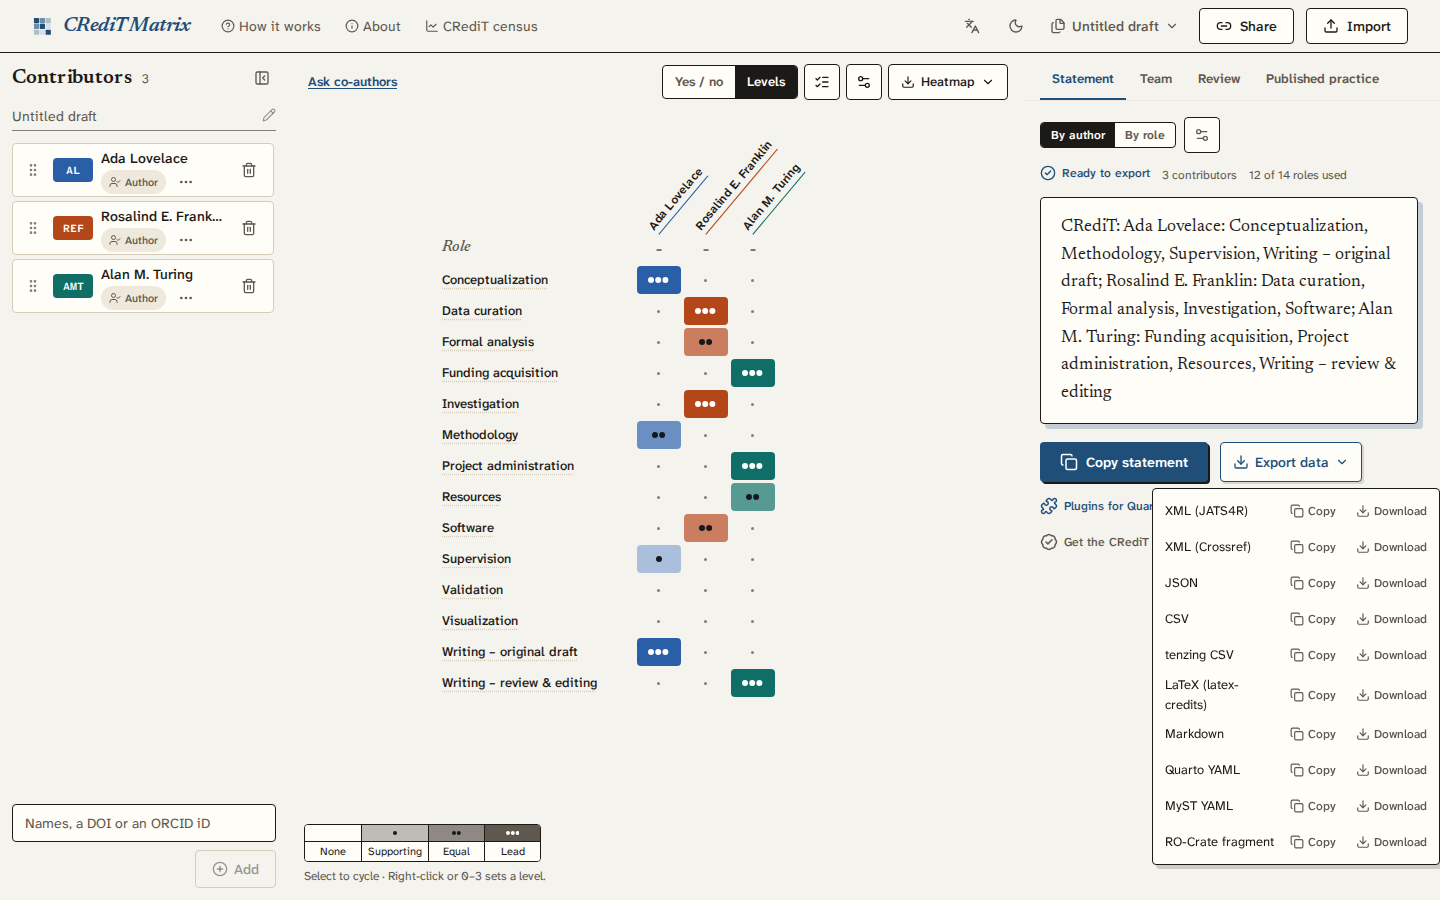
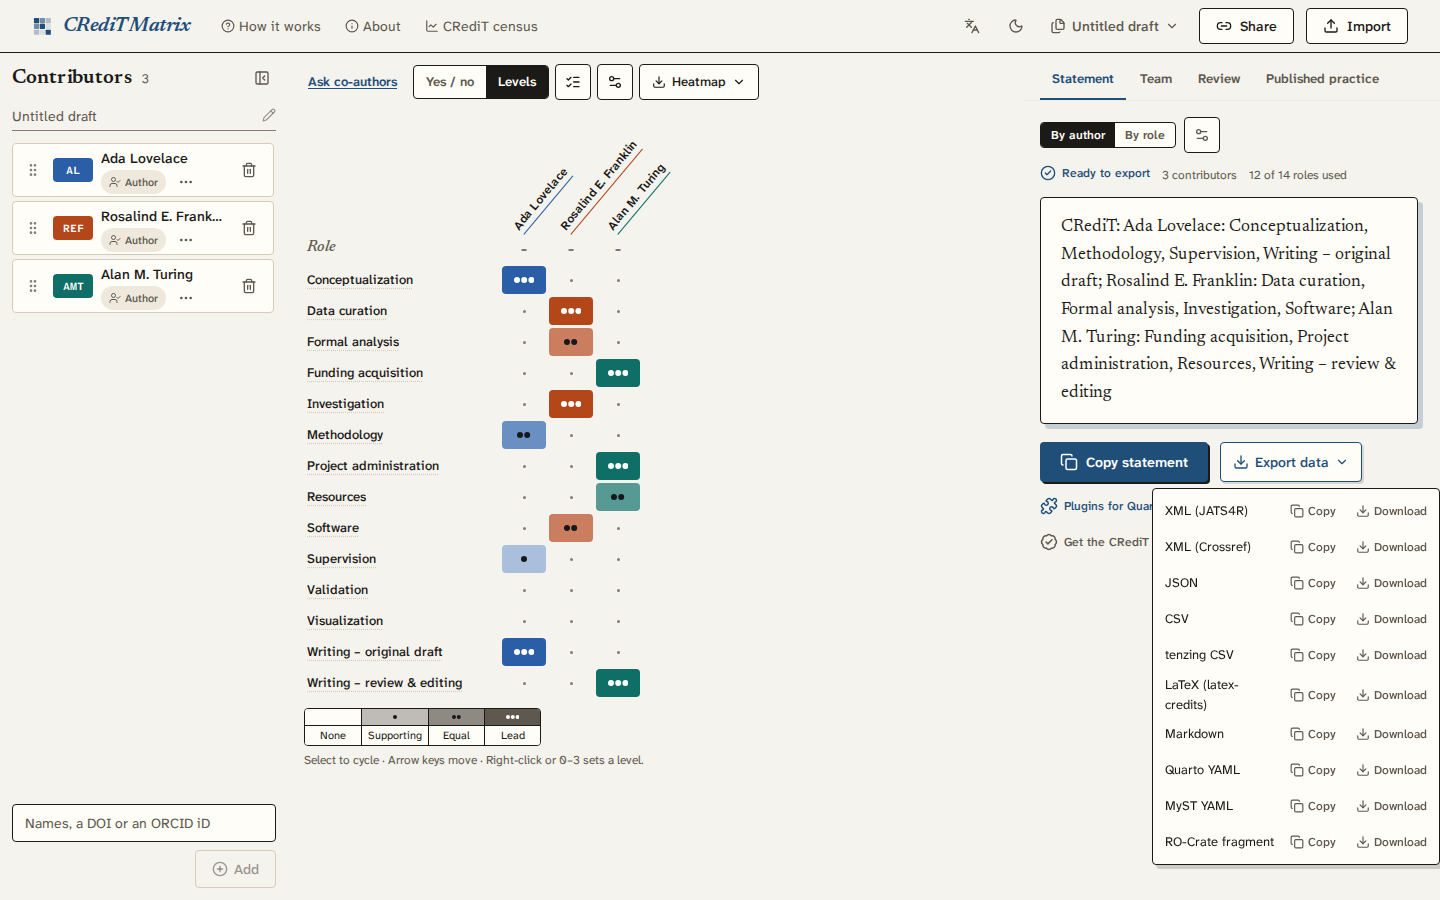
docs: recheck contrast and refresh screenshots for the new palette
- the axe and contrast specs pass in Chromium, Firefox and WebKit in
  both themes; the assessment records the recheck
- visual-contrast.spec.ts checks the focus ring at 3:1; it measures
  8.5:1, replacing the old 7.5 to 9.2:1 figure
- README alt text describes the per-contributor colours and the
  current export menu
- CONTRIBUTING names the CHANGELOG heading and compare-link edits

diff --git a/e2e/visual-contrast.spec.ts b/e2e/visual-contrast.spec.ts
@@ -110,6 +110,22 @@ for (const theme of themes) {
       const mark = await flatten(page, [...ground, await style(dot, "background-color")]);
       expect(ratio(mark, await flatten(page, ground))).toBeGreaterThanOrEqual(3);
     });
+
+    test("the focus ring reaches 3:1 against the page", async ({ page }) => {
+      await page.goto("/");
+      await page.getByRole("button", { name: "Load sample data" }).click();
+      const input = page.locator('input[aria-label="Name or ORCID iD"]').first();
+      await input.focus();
+      await page.keyboard.press("Shift+Tab");
+      await page.keyboard.press("Tab");
+      await expect(input).toBeFocused();
+      // The ring is the 2px layer of a stacked box-shadow, drawn outside the field over its parent's background.
+      const ringColor = (await style(input, "box-shadow")).match(/(rgba?\([^)]*\)) 0px 0px 0px 2px/)?.[1];
+      expect(ringColor, "box-shadow colour").toBeTruthy();
+      const ground = await backdrop(input, false);
+      const ring = await flatten(page, [...ground, ringColor as string]);
+      expect(ratio(ring, await flatten(page, ground))).toBeGreaterThanOrEqual(3);
+    });
   });
 }
 

diff --git a/README.md b/README.md
@@ -32,11 +32,11 @@ The sampled GraphQL `httpRequestsAdaptiveGroups` query filtered this hostname, `
 `edgeResponseContentTypeName: "html"` and HTTP status 200–299, following
 [Cloudflare's page-view definition](https://developers.cloudflare.com/analytics/account-and-zone-analytics/zone-analytics/).
 
-![The CRediT Matrix workspace with sample data: a contributor rail on the left, the contribution grid as the main canvas with a strip above it counting answered co-authors, and an inspector on the right with Statement, Team and Review tabs. The Team tab is open and lists each contributor as not asked yet, with a Copy message button per person and an Ask everyone not yet asked button](docs/screenshots/hero.png)
+![The CRediT Matrix workspace with sample data for three contributors. On the left, the contributor list gives each person an initials chip in their own colour. In the middle, the contribution grid shows the 14 CRediT roles as rows and one column per person; filled cells in that person's colour carry one, two or three dots for Supporting, Equal and Lead, above a key. On the right, the Team tab lists each contributor as not asked yet, with a Copy message button per person and an Ask everyone not yet asked button](docs/screenshots/hero.png)
 
 | First run | Statement & export |
 |---|---|
-| ![The first-run welcome as a dialog over the empty workspace: three numbered steps, notes on drafts and asking co-authors, and Load sample data and Start fresh buttons](docs/screenshots/empty-state.png) | ![The Statement tab of the inspector: a By author or By role switch, the generated statement, a Copy statement button, and the open Export data menu with Copy and Download for XML (JATS4R), XML (Crossref), JSON, CSV, tenzing CSV, LaTeX (latex-credits) and Markdown](docs/screenshots/statement-export.png) |
+| ![The first-run welcome as a dialog over the empty workspace: three numbered steps, notes on drafts and asking co-authors, and Load sample data and Start fresh buttons](docs/screenshots/empty-state.png) | ![The Statement tab beside the grid: a By author or By role switch, the generated statement, a Copy statement button, and the open Export data menu with Copy and Download for XML (JATS4R), XML (Crossref), JSON, CSV, tenzing CSV, LaTeX (latex-credits), Markdown, Quarto YAML, MyST YAML and RO-Crate fragment](docs/screenshots/statement-export.png) |
 
 ## Quick start
 

diff --git a/docs/accessibility-assessment.md b/docs/accessibility-assessment.md
@@ -11,6 +11,9 @@ judge each criterion on it, report.
   about, CSP, accessibility-tree and main workflow tests in Firefox and WebKit, the engine Safari
   uses. Five workflow tests could not run there: they read the clipboard, which Playwright can only
   allow in Chromium. It fixed four problems, listed under 1.3.1, 2.4.6 and 4.1.3.
+- **Rechecked:** 11 November 2026, after the per-contributor colours and the warm paper palette.
+  The axe and contrast tests passed in Chromium, Firefox and WebKit in both themes, and 1.4.11 now
+  also checks the focus ring.
 - **Who:** the developer. This is not an external audit.
 - **Browser:** Chromium (Playwright's desktop Chrome profile), at 1280 px, 640 px, 390 px and
   320 px wide, in the light and dark themes. Firefox and WebKit through Playwright, at 1280 px.
@@ -67,7 +70,7 @@ N/A: the page has no content the criterion applies to.
 | 1.4.4 Resize Text | AA | Pass | Fixed: at 640 to 700 px (200% zoom) the header ran past the edge and hid Import. `e2e/visual-contrast.spec.ts` checks the width at 640 and 700 px. |
 | 1.4.5 Images of Text | AA | Pass | The only raster image is the badge logo. |
 | 1.4.10 Reflow | AA | Pass | No sideways scrolling at 320 px on any sampled page. The grid becomes a list of roles per contributor. The element's heatmap scrolls inside its own box, which the exception for data visualisations allows. |
-| 1.4.11 Non-text Contrast | AA | Pass | Fixed: the reorder grip, text-field edges and empty grid cells were 1.1 to 1.6:1. `e2e/visual-contrast.spec.ts` checks them at 3:1 in both themes. Focus rings measure 7.5 to 9.2:1. |
+| 1.4.11 Non-text Contrast | AA | Pass | Fixed: the reorder grip, text-field edges and empty grid cells were 1.1 to 1.6:1. `e2e/visual-contrast.spec.ts` checks them at 3:1 in both themes. The focus ring measures 8.5:1 in both themes and is checked at 3:1 in the same spec. Each contributor's hue carries white initials at 4.5:1 and marks a linked cell at 3:1 in both themes (`src/core/__tests__/contrast.test.ts`). |
 | 1.4.12 Text Spacing | AA | Pass | With the 1.4.12 spacing applied, no text is clipped or overlaps. |
 | 1.4.13 Content on Hover or Focus | AA | Pass | Fixed: Escape did not hide the census chart's value readout. `e2e/focus-and-timing.spec.ts` checks it. Popovers open on click and close on Escape. |
 

diff --git a/CONTRIBUTING.md b/CONTRIBUTING.md
@@ -84,7 +84,10 @@ pulled. It merges minor and patch updates once every check passes; majors and Gi
 
 ## Releases
 
-Add a dated changelog entry before running `pnpm version`. Its lifecycle script takes the
+Add a dated changelog entry before running `pnpm version`: rename `## [Unreleased]` to
+`## [<version>] - <date>` above a new empty `## [Unreleased]`, and at the bottom of the file point
+the `[Unreleased]` link at `compare/v<version>...HEAD` and add a `[<version>]` link to
+`compare/v<previous>...v<version>`. Its lifecycle script takes the
 version from the root package and the date from that entry. It runs `citesync==0.4.0` through
 `uvx` to update CITATION.cff, codemeta.json, the four committed citation exports (including
 `schema.jsonld`) and the published `src/core/package.json`.
